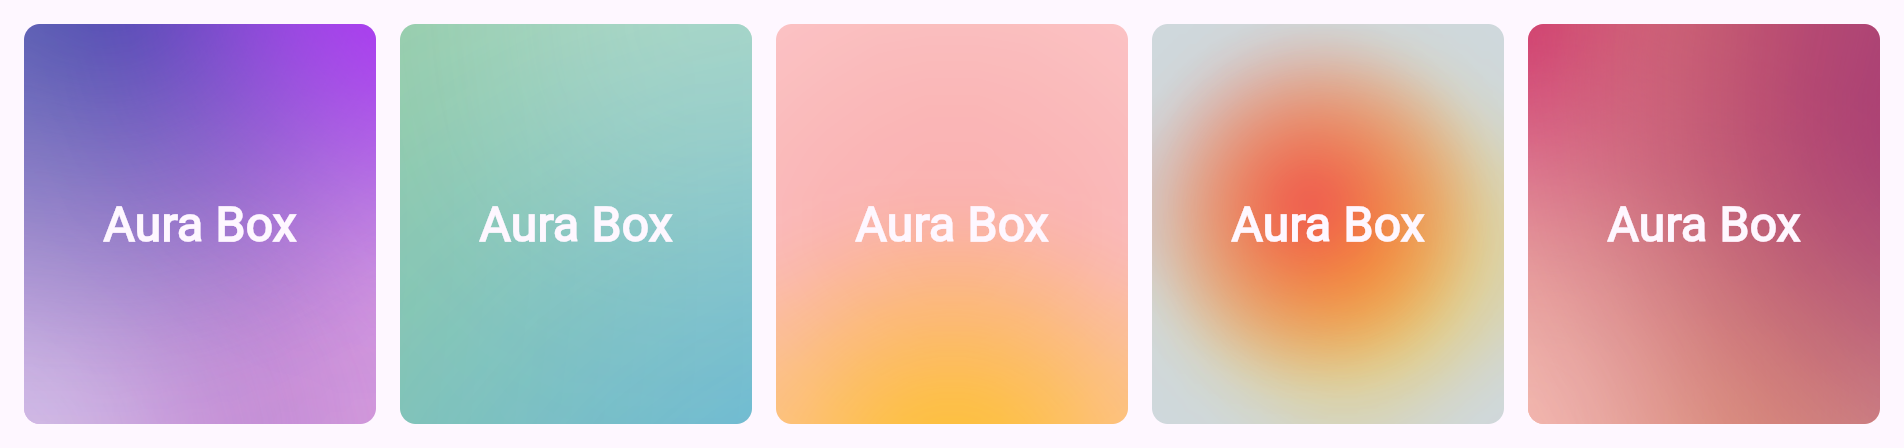
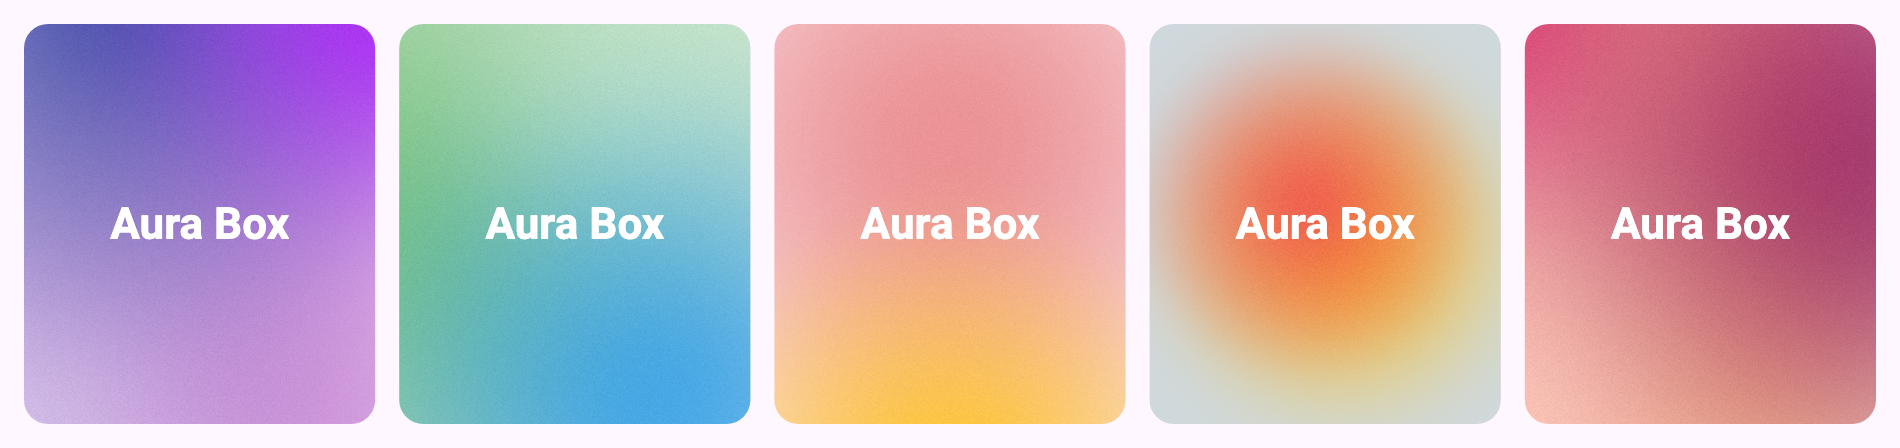
docs: document 2.0.0 and fold the 1.1.0 notes into it
Rewrite the README for the new API, add migration notes and a new preview
image. The 1.1.0 maintenance release was never published, so its notes move
into the 2.0.0 changelog entry.

diff --git a/README.md b/README.md
@@ -10,6 +10,16 @@
 Flutter widget for aura-style backgrounds. Compose multiple blurred radial
 gradient spots inside a box to create soft, glowing, mesh-like gradients.
 
+- **One draw call.** Every spot is painted by a single fragment shader pass.
+  No offscreen images, no blur passes, no extra layers per spot.
+- **Animatable.** Spots are plain data with `lerp`. Use `AnimatedAuraBox`, an
+  `AnimatedContainer` with an `AuraDecoration`, or your own controller.
+- **Alive.** An optional drift moves the spots slowly. An optional film grain
+  adds texture.
+- **Everywhere.** Android, iOS, macOS, Windows, Linux and web, on Impeller and
+  on Skia, with the same look.
+- **No dependencies** besides Flutter.
+
 [pub_badge]: https://img.shields.io/pub/v/aura_box.svg
 [pub_link]: https://pub.dev/packages/aura_box
 [license_badge]: https://img.shields.io/badge/license-MIT-blue.svg
@@ -31,7 +41,7 @@ Or add it to your `pubspec.yaml` manually:
 
 ```yaml
 dependencies:
-  aura_box: ^1.1.0
+  aura_box: ^2.0.0
 ```
 
 Then import it:
@@ -40,20 +50,23 @@ Then import it:
 import 'package:aura_box/aura_box.dart';
 ```
 
+Version 2 needs Flutter 3.44 or newer. Coming from 1.x? See
+[Migrating from 1.x](#migrating-from-1x).
+
 ## Usage
 
 Wrap any widget in an `AuraBox` and give it a list of `AuraSpot`s:
 
 ```dart
 AuraBox(
-  spots: [
+  spots: const [
     // A blue spot in the center.
     AuraSpot(
       color: Colors.blue,
       radius: 100,
       alignment: Alignment.center,
       blurRadius: 5,
-      stops: const [0.0, 0.5],
+      stops: [0.0, 0.5],
     ),
     // A red spot in the bottom right corner.
     AuraSpot(
@@ -61,61 +74,196 @@ AuraBox(
       radius: 150,
       alignment: Alignment.bottomRight,
       blurRadius: 10,
-      stops: const [0.0, 0.7],
+      stops: [0.0, 0.7],
     ),
   ],
   decoration: BoxDecoration(
-    color: Colors.transparent,
     borderRadius: BorderRadius.circular(10),
   ),
   child: const SizedBox(height: 100, width: 100),
 )
 ```
 
-![AuraBox with a blue and a red spot](https://github.com/GangemiLorenzo/aura_box/assets/26723808/974cfc39-28be-4942-bbab-95d942a5917a)
+The box takes the size of its child. Without a child it fills its parent, so
+it also works as a page background:
+
+```dart
+Stack(
+  children: [
+    const Positioned.fill(child: AuraBox(spots: spots)),
+    content,
+  ],
+)
+```
+
+### Animate between auras
+
+`AnimatedAuraBox` animates every change of its spots, decoration and grain.
+Spots are matched by index. A spot without a match fades in or out.
+
+```dart
+AnimatedAuraBox(
+  duration: const Duration(milliseconds: 600),
+  curve: Curves.easeInOut,
+  spots: selected ? warmSpots : coldSpots,
+  child: const SizedBox(height: 200),
+)
+```
+
+For full control, interpolate yourself with `AuraSpot.lerp` or
+`AuraSpot.lerpList`.
+
+### Use it as a decoration
+
+`AuraDecoration` paints an aura wherever Flutter accepts a `Decoration`. Two
+aura decorations interpolate, so an `AnimatedContainer` animates them:
+
+```dart
+AnimatedContainer(
+  duration: const Duration(milliseconds: 600),
+  width: expanded ? 320 : 160,
+  height: 160,
+  decoration: AuraDecoration(
+    color: Colors.black,
+    borderRadius: BorderRadius.circular(24),
+    spots: expanded ? warmSpots : coldSpots,
+  ),
+)
+```
+
+### Drift
+
+Give the box a drift and every spot wanders slowly around its alignment:
+
+```dart
+AuraBox(
+  spots: spots,
+  drift: const AuraDrift(
+    amplitude: 0.2, // in alignment units
+    period: Duration(seconds: 12),
+  ),
+)
+```
+
+The motion is deterministic: the same `seed` gives the same paths. It stops
+when the platform asks for reduced motion.
+
+### Grain
+
+A film grain over the spots, from `0.0` to `1.0`:
+
+```dart
+AuraBox(spots: spots, grain: 0.1)
+```
+
+### Skip the first fallback frame
+
+The fragment shader loads asynchronously the first time an aura is painted.
+Until it is ready, the spots are painted as plain gradients with the same
+shape, without grain. To use the shader from the very first frame, load it
+before `runApp`:
+
+```dart
+Future<void> main() async {
+  WidgetsFlutterBinding.ensureInitialized();
+  await AuraBox.precache();
+  runApp(const MyApp());
+}
+```
 
 ## API overview
 
 ### `AuraBox`
 
-A container that paints a stack of `AuraSpot`s behind its `child`.
+A box that paints a list of `AuraSpot`s behind its `child`.
 
-| Parameter    | Type              | Required | Description                                                                                                                         |
-| ------------ | ----------------- | -------- | ----------------------------------------------------------------------------------------------------------------------------------- |
-| `spots`      | `List<AuraSpot>`  | yes      | The spots to paint, layered in list order.                                                                                          |
-| `child`      | `Widget`          | yes      | The content painted on top of the spots. It also gives the box its size.                                                            |
-| `decoration` | `BoxDecoration?`  | no       | Background decoration of the box. A `borderRadius` or `BoxShape.circle` also clips the spots, so they never paint outside the shape. |
+| Parameter    | Type             | Default | Description                                                                                                                  |
+| ------------ | ---------------- | ------- | ---------------------------------------------------------------------------------------------------------------------------- |
+| `spots`      | `List<AuraSpot>` |         | Required. The spots to paint, layered in list order.                                                                          |
+| `child`      | `Widget?`        | `null`  | The content painted on top of the spots. It gives the box its size. Without a child the box fills its parent.                  |
+| `decoration` | `BoxDecoration?` | `null`  | Painted behind the spots. A `borderRadius` or `BoxShape.circle` also cuts the spots, so they never paint outside the shape.    |
+| `grain`      | `double`         | `0`     | Film grain strength, `0.0` to `1.0`.                                                                                          |
+| `drift`      | `AuraDrift?`     | `null`  | A slow, continuous movement of the spots.                                                                                     |
+
+`AnimatedAuraBox` has the same parameters plus `duration`, `curve` and `onEnd`.
 
 ### `AuraSpot`
 
-A single radial gradient spot with an optional blur.
+A single spot: a radial falloff of one color, optionally blurred. Immutable
+data, not a widget.
 
-| Parameter    | Type           | Required | Default      | Description                                                              |
-| ------------ | -------------- | -------- | ------------ | ------------------------------------------------------------------------ |
-| `color`      | `Color`        | yes      |              | The color at the center of the spot. It fades to transparent at the edge. |
-| `radius`     | `double`       | yes      |              | The radius of the radial gradient, in logical pixels.                     |
-| `alignment`  | `Alignment`    | yes      |              | The position of the spot center inside the box.                           |
-| `blurRadius` | `double`       | no       | `0`          | The blur intensity applied to the spot.                                   |
-| `stops`      | `List<double>` | no       | `[0.0, 1.0]` | The gradient distribution. Must contain exactly 2 values.                 |
+| Parameter    | Type                | Default            | Description                                                                             |
+| ------------ | ------------------- | ------------------ | --------------------------------------------------------------------------------------- |
+| `color`      | `Color`             |                    | Required. The color at the center of the spot. It fades to transparent at the edge.      |
+| `radius`     | `double`            |                    | Required. The radius of the spot, in logical pixels.                                     |
+| `alignment`  | `AlignmentGeometry` | `Alignment.center` | The position of the spot center inside the box.                                         |
+| `blurRadius` | `double`            | `0`                | The blur intensity: the standard deviation of a Gaussian, in logical pixels.            |
+| `stops`      | `List<double>`      | `[0.0, 1.0]`       | Where the fade starts and ends, as fractions of the radius. Exactly 2 ascending values. |
+
+### `AuraDecoration`
+
+| Parameter      | Type                    | Default              | Description                               |
+| -------------- | ----------------------- | -------------------- | ----------------------------------------- |
+| `spots`        | `List<AuraSpot>`        |                      | Required. The spots to paint.             |
+| `color`        | `Color?`                | `null`               | The color painted behind the spots.       |
+| `borderRadius` | `BorderRadiusGeometry?` | `null`               | Rounds the corners of the painted area.   |
+| `shape`        | `BoxShape`              | `BoxShape.rectangle` | The shape of the painted area.            |
+| `grain`        | `double`                | `0`                  | Film grain strength, `0.0` to `1.0`.      |
+
+### `AuraDrift`
+
+| Parameter   | Type       | Default      | Description                                                             |
+| ----------- | ---------- | ------------ | ----------------------------------------------------------------------- |
+| `amplitude` | `double`   | `0.2`        | How far a spot moves from its alignment, in alignment units.             |
+| `period`    | `Duration` | `12 seconds` | The time a spot takes to complete one loop, on average.                  |
+| `seed`      | `int`      | `0`          | Selects a different set of paths.                                        |
 
 ### Alignment
 
-The spots are positioned inside a `Stack` with the `alignment` property.
-Values outside the `-1.0..1.0` range place the spot center outside the box,
-which is useful for soft glows that enter from an edge.
+A spot is positioned inside the box with its `alignment`. Values outside the
+`-1.0..1.0` range place the spot center outside the box, which is useful for
+soft glows that enter from an edge.
 
 For more details, see the [Alignment class documentation](https://api.flutter.dev/flutter/painting/Alignment-class.html).
 
+## How it works
+
+All the spots of a box are painted by one fragment shader, in one pass. The
+blur is not an image filter: the shader evaluates a closed-form approximation
+of a Gaussian-blurred radial ramp for every pixel. That makes the cost
+independent of the blur radius, keeps the result sharp at any pixel density,
+and leaves nothing to cache or dispose.
+
+A box with more than 8 spots uses one extra pass for every 8 spots.
+
+The shader output is dithered, so soft gradients show no banding.
+
+## Migrating from 1.x
+
+Most 1.x code compiles unchanged. What is different:
+
+- **`AuraSpot` is no longer a widget.** It is immutable data. Code that put an
+  `AuraSpot` directly in a widget tree must wrap it in an `AuraBox`. The `key`
+  parameter is gone.
+- **`blurRadius` is a true Gaussian blur.** In 1.x the blur was cut at the
+  edges of the box, so very large values kept the colors strong. Now a blur
+  that is large compared to the `radius` spreads the color and lowers its
+  intensity, like a real blur does. If a design looks paler than before, lower
+  its `blurRadius`.
+- **The child gets the constraints of the box.** In 1.x the child sat in a
+  `Stack` with loose constraints. Now it is laid out like the child of a
+  `DecoratedBox`.
+- **`child` is optional** and `alignment` defaults to `Alignment.center`.
+- **Minimum SDK:** Flutter 3.44, Dart 3.12.
+
 ## Example
 
-The [`example/`](https://github.com/GangemiLorenzo/aura_box/tree/main/example) folder contains a complete app with several presets and a light/dark toggle:
+The [`example/`](https://github.com/GangemiLorenzo/aura_box/tree/main/example) folder contains a complete app with presets, implicit animation, the decoration API and a playground for blur, grain and drift:
 
 ```sh
 cd example
 flutter run
 ```
-
-![Example app](https://github.com/GangemiLorenzo/aura_box/assets/26723808/c5852f3a-b85d-4c2d-8e97-57016712c5ea)
 
 ---
 

diff --git a/CHANGELOG.md b/CHANGELOG.md
@@ -1,20 +1,43 @@
-# v1.1.0 (1.1.0)
+# v2.0.0 (2.0.0)
 
-Maintenance release. No public API changes. First published version since 1.0.2 (1.0.3 and 1.0.4 were tagged in the repository but never published to pub.dev).
+A full rewrite of the rendering. Every spot of a box is now painted by a single fragment shader pass, on every platform.
+
+### Breaking
+- `AuraSpot` is immutable data, not a widget. Its `key` parameter is gone.
+- `blurRadius` is a true Gaussian blur. A blur that is large compared to the `radius` now lowers the intensity of the spot. In 1.x the blur was cut at the edges of the box.
+- The `child` of an `AuraBox` gets the constraints of the box, like the child of a `DecoratedBox`. In 1.x it sat in a `Stack` with loose constraints.
+- Require Dart `^3.12.0` and Flutter `>=3.44.0`.
+
+### Added
+- `AnimatedAuraBox`: implicit animation of spots, decoration and grain.
+- `AuraDecoration`: an aura as a `Decoration`, with `lerp` support for `AnimatedContainer` and `DecorationTween`.
+- `AuraDrift` and `AuraBox.drift`: a slow, continuous movement of the spots. It respects the reduced motion setting.
+- `grain`: an optional film grain.
+- `AuraSpot.lerp`, `AuraSpot.lerpList`, `AuraSpot.copyWith`, `AuraSpot.scale` and value equality.
+- `AuraBox.precache()` to load the shader before the first frame.
+- `AuraSpot.alignment` accepts any `AlignmentGeometry` and defaults to `Alignment.center`.
+- `AuraBox.child` is optional. Without a child the box fills its parent.
+- `AuraSpot` can be `const`.
 
 ### Changed
-- Require Dart `^3.8.0` and Flutter `>=3.32.0` (minimum SDK raised, hence the minor version bump).
-- Set `homepage` to https://lorenzogangemi.com and add `repository` and `issue_tracker` links.
-- Add pub.dev `topics` and a `screenshots` entry.
-- Rewrite the package `description` to improve discoverability.
-- Upgrade dev dependencies: `very_good_analysis` ^11.0.0, `patrol_finders` ^3.6.0.
-- Use the latest `very_good_analysis` rule set and fix all new lints.
-- Format the code with the current Dart formatter.
-- Upgrade the example app (`flutter_lints` ^6.0.0, `cupertino_icons` ^2.0.0, current Flutter platform migrations).
+- One draw call for every 8 spots, instead of two offscreen images, a layer and a clip per spot.
+- The output is dithered: no banding in soft gradients.
+- Spots are sharp at any device pixel ratio.
+- The library imports `package:flutter/widgets.dart` only. No Material dependency.
+- The example app shows the new features and uses the standalone `material_ui` package.
 
-### Documentation
-- Add a preview image at the top of the README.
-- Add install, usage and API overview sections for `AuraBox` and `AuraSpot`.
+### Maintenance
+- First published version since 1.0.2 (1.0.3 and 1.0.4 were tagged in the repository but never published to pub.dev).
+- Set `homepage` to https://lorenzogangemi.com and add `repository` and `issue_tracker` links.
+- Add pub.dev `topics` and a `screenshots` entry, and rewrite the package `description`.
+- Upgrade dev dependencies: `very_good_analysis` ^11.0.0, `patrol_finders` ^3.6.0.
+- Rewrite the README: new preview image, usage of every feature, API overview and migration notes.
+
+### Fixed
+- `Invalid image dimensions` exception when the box has a zero or sub-pixel size.
+- Images, pictures and shaders that were never disposed.
+- The spots were rebuilt on every paint of the box.
+- `AuraBox` needed a `Directionality` ancestor.
 
 # v1.0.3 (1.0.3)
 
